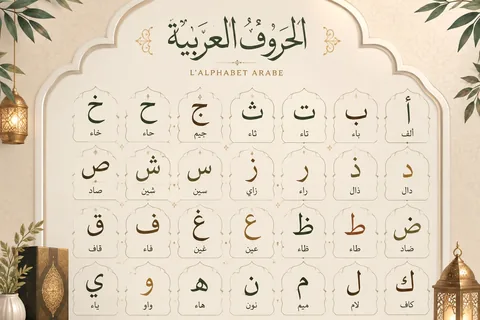
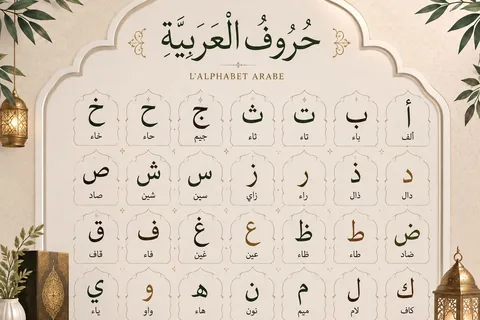
La planche d'alphabet corrigée, et un liseré qui tient sur les sujets clairs
PLANCHE D'ALPHABET. La mosquée signale une faute dans le titre et fournit la
bonne image : « الحُرُوفُ العَرَبِيَّة » devient « حُرُوفُ الْعَرَبِيَّةِ ».
L'ancienne est archivée sous `Alphabetisation-titre-errone.jpeg`, pour qu'on
ne la remette pas par mégarde. Elle ne servait plus qu'à la carte du pôle,
les cartes de formule portant les cahiers de lecture depuis le 26/08.

LISERÉ D'IMAGE. Nouveau jeton `--border-image` à 55 % d'encre, là où le filet
interne n'est qu'à 8 %. Le cahier de lecture est du papier crème — rgb(225,
219, 213) mesuré — sur une carte à rgb(240, 235, 230) : 1,16:1. Son cadre
était invisible. 55 % donne 3,61:1 contre le fond de carte et 3,12:1 contre
le papier : au-dessus du seuil de 3:1 des éléments graphiques, des DEUX côtés
du trait.

SUR LE DIAGNOSTIC, une mise au point. La mosquée signalait le cahier 1
absent ; j'ai d'abord attribué cela au contraste, à tort. Le fichier contient
bien son titre en noir, il est servi en HTTP 200, identique à la source, et
la page le rend correctement. Un chargement bridé à 150 kbit/s montre la
vraie cause : après 18 secondes aucune des deux images n'est peinte, et elles
arrivent l'une après l'autre — il existe donc une fenêtre où l'une manque.
C'était bien la connexion, comme la mosquée le supposait.

Le liseré reste utile pour une autre raison que celle avancée d'abord : la
balise le dessine AVANT que l'image n'arrive. Pendant le chargement on voit
[…]

diff --git a/src/styles/tokens.css b/src/styles/tokens.css
@@ -87,6 +87,16 @@
      Toutes dérivées de --encre-1 et --orange-1 en rgba : une bordure est
      de l'encre diluée ou de la lumière, jamais une couleur à part. */
   --border-hair:     rgba(36, 28, 22, 0.08);    /* séparateur interne */
+  /* Liseré d'IMAGE, ajouté le 31/08. Le filet interne à 8 % suffit à séparer
+     deux zones de la page ; il ne suffit pas à détacher une image dont le
+     sujet est clair. Le cahier de lecture est du papier crème — rgb(225,
+     219, 213) mesuré — sur une carte à rgb(240, 235, 230) : 1,16:1, il
+     disparaissait purement et simplement, et la mosquée a cru à un
+     chargement raté.
+     55 % d'encre donne 3,61:1 contre le fond de carte et 3,12:1 contre le
+     papier : au-dessus du seuil de 3:1 des éléments graphiques, des deux
+     côtés du trait. */
+  --border-image:    rgba(36, 28, 22, 0.55);
   --border:          rgba(36, 28, 22, 0.14);    /* défaut : contour de carte */
   --border-strong:   rgba(36, 28, 22, 0.26);    /* survol, élément actif */
   --border-accent:   rgba(228, 96, 36, 0.42);   /* accentué */

diff --git a/src/styles/sections/tarifs.css b/src/styles/sections/tarifs.css
@@ -703,5 +703,7 @@
   height: 100%;
   width: auto;
   border-radius: var(--r-0);
-  border: 1px solid var(--border-hair);
+  /* Liseré d'image et non filet interne : un support au sujet clair se
+     confond sinon avec la carte. Voir --border-image dans tokens.css. */
+  border: 1px solid var(--border-image);
 }
